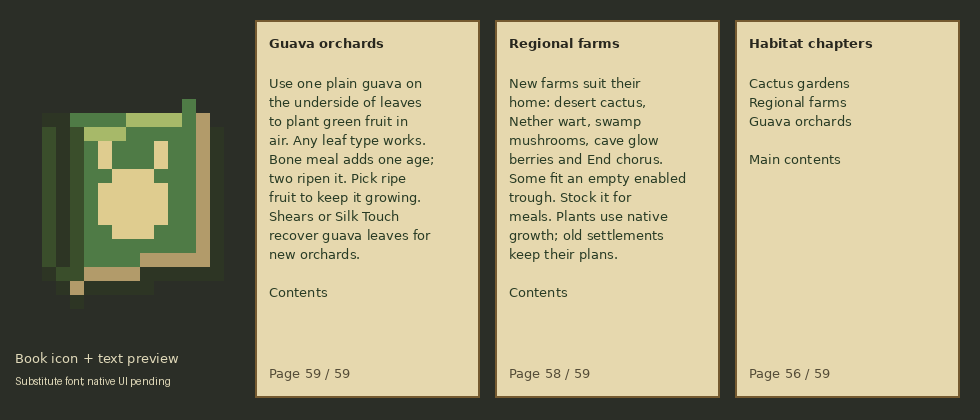
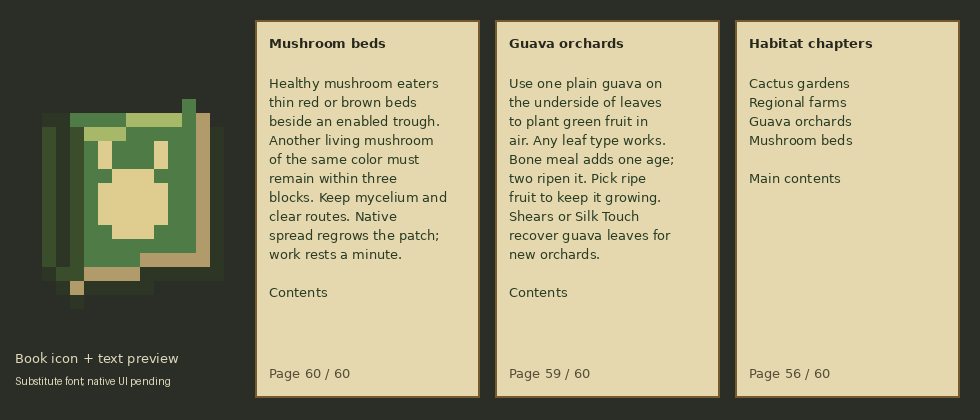
Let mushroom eaters thin beds while preserving seed stock

diff --git a/tools/gametest/java/com/bunnidogs/mod/entity/MushroomGardeningGameTest.java b/tools/gametest/java/com/bunnidogs/mod/entity/MushroomGardeningGameTest.java
@@ -1,0 +1,94 @@
+package com.bunnidogs.mod.entity;
+
+import java.util.function.Consumer;
+import com.bunnidogs.mod.block.FeedingTroughBlock;
+import com.bunnidogs.mod.block.FeedingTroughBlockEntity;
+import com.bunnidogs.mod.genetics.Gardening;
+import com.bunnidogs.mod.genetics.Gene;
+import com.bunnidogs.mod.genetics.Genome;
+import com.bunnidogs.mod.registry.ModBlocks;
+import com.bunnidogs.mod.registry.ModEntities;
+import net.minecraft.core.BlockPos;
+import net.minecraft.gametest.framework.GameTestHelper;
+import net.minecraft.util.ProblemReporter;
+import net.minecraft.world.entity.item.ItemEntity;
+import net.minecraft.world.item.ItemStack;
+import net.minecraft.world.item.Items;
+import net.minecraft.world.level.block.Blocks;
+import net.minecraft.world.level.gamerules.GameRules;
+import net.minecraft.world.level.storage.TagValueInput;
+import net.minecraft.world.level.storage.TagValueOutput;
+import net.minecraft.world.phys.AABB;
+import net.minecraft.world.phys.Vec3;
+import net.neoforged.neoforge.common.NeoForge;
+import net.neoforged.neoforge.event.entity.living.LivingDestroyBlockEvent;
+
+/** Conserved fungal seed stock, including a companion disappearing inside native protection callbacks. */
+public final class MushroomGardeningGameTest {
+    private MushroomGardeningGameTest() {}
+    private static void ready(Bunnidog dog) {
+        var level = dog.level(); var output = TagValueOutput.createWithContext(ProblemReporter.DISCARDING,level.registryAccess());
+        dog.saveWithoutId(output); var saved = output.buildResult(); saved.remove("GardenWait");
+        dog.load(TagValueInput.create(ProblemReporter.DISCARDING,level.registryAccess(),saved));
+    }
+    private static void work(GameTestHelper h, Bunnidog dog, GardenGoal goal) {
+        goal.start(); dog.setPos(Vec3.atBottomCenterOf(h.absolutePos(new BlockPos(4,1,3))));
+        for (int i = 0; i < Gardening.WORK_TICKS; i++) goal.tick(); goal.stop();
+    }
+    public static void run(GameTestHelper h) {
+        var level = h.getLevel();
+        for (int x = 0; x < 8; x++) for (int z = 0; z < 8; z++) {
+            h.setBlock(x,0,z,Blocks.MYCELIUM);
+            for (int y = 1; y <= 5; y++) h.setBlock(x,y,z,Blocks.AIR);
+        }
+        h.setBlock(1,1,1,ModBlocks.NEST.get());
+        h.setBlock(new BlockPos(3,1,4),ModBlocks.FEEDING_TROUGH.get().defaultBlockState().setValue(FeedingTroughBlock.TENDING,true));
+        var target = h.absolutePos(new BlockPos(5,1,3)); var spare = target.south(2); var brown = target.north(2);
+        level.setBlock(target,Blocks.RED_MUSHROOM.defaultBlockState(),3); level.setBlock(brown,Blocks.BROWN_MUSHROOM.defaultBlockState(),3);
+        var troughPos = h.absolutePos(new BlockPos(3,1,4)); var trough = (FeedingTroughBlockEntity)level.getBlockEntity(troughPos);
+        var dog = h.spawnWithNoFreeWill(ModEntities.BUNNIDOG.get(),3.5F,1,3.5F);
+        int eater = Gene.DIET.alleleNamed("mushroom_eater").id();
+        var genome = Genome.DEFAULT.with(Gene.DIET,0,eater).with(Gene.DIET,1,eater);
+        dog.setAge(0); dog.setGenome(genome); dog.setHealth(dog.getMaxHealth());
+        h.runAfterDelay(2,() -> {
+            var clock = level.dimensionType().defaultClock().orElseThrow(); long time = level.clockManager().getTotalTicks(clock);
+            boolean griefing = level.getGameRules().get(GameRules.MOB_GRIEFING);
+            try {
+                level.clockManager().setTotalTicks(clock,1000); level.getGameRules().set(GameRules.MOB_GRIEFING,true,level.getServer());
+                h.assertTrue(dog.moveHomeTo(level,h.absolutePos(new BlockPos(1,1,1))) == NestHome.MoveResult.MOVED,"Mushroom workers need a claimed home");
+                h.assertTrue(!new GardenGoal(dog).canUse(),"One red and one brown are both seed stock; colors cannot substitute");
+                level.setBlock(spare,Blocks.RED_MUSHROOM.defaultBlockState(),3);
+                dog.setGenome(Genome.DEFAULT); h.assertTrue(!new GardenGoal(dog).canUse(),"Plain diets must not thin fungal beds"); dog.setGenome(genome);
+                trough.setFilter(new ItemStack(Items.BROWN_MUSHROOM)); h.assertTrue(!new GardenGoal(dog).canUse(),"Exact filters must reserve the other color"); trough.clearFilter();
+                var interrupted = new GardenGoal(dog); h.assertTrue(interrupted.canUse(),"An extra red mushroom must form a sustainable harvest");
+                Consumer<LivingDestroyBlockEvent> loseCompanion = event -> {
+                    if (event.getEntity() == dog && event.getPos().equals(target)) level.removeBlock(spare,false);
+                };
+                NeoForge.EVENT_BUS.addListener(loseCompanion);
+                try { work(h,dog,interrupted); } finally { NeoForge.EVENT_BUS.unregister(loseCompanion); }
+                h.assertTrue(level.getBlockState(target).is(Blocks.RED_MUSHROOM) && level.getBlockState(spare).isAir()
+                        && trough.food().isEmpty() && dog.gardeningWait() == 0,"A companion lost during protection callbacks must keep the final seed without rest or produce");
+                level.setBlock(spare,Blocks.RED_MUSHROOM.defaultBlockState(),3);
+                var harvest = new GardenGoal(dog); h.assertTrue(harvest.canUse(),"Restored seed stock must allow a new job");
+                work(h,dog,harvest);
+                h.assertTrue(level.getBlockState(target).isAir() && level.getBlockState(spare).is(Blocks.RED_MUSHROOM)
+                        && level.getBlockState(brown).is(Blocks.BROWN_MUSHROOM) && trough.food().is(Items.RED_MUSHROOM)
+                        && trough.food().getCount() == 1 && dog.gardeningWait() == Gardening.REST_TICKS,"Harvest must store one real mushroom, keep both colors and share work rest");
+                h.assertTrue(level.getEntitiesOfClass(ItemEntity.class,new AABB(target).inflate(4),item -> item.getItem().is(Items.RED_MUSHROOM)).isEmpty(),"Thinning must not duplicate loose produce");
+                ready(dog); trough.takeAll(); h.assertTrue(!new GardenGoal(dog).canUse(),"After recovery the final mushrooms must remain until native spread");
+                level.removeBlock(spare,false); level.removeBlock(brown,false);
+                level.setBlock(target,Blocks.BROWN_MUSHROOM.defaultBlockState(),3); level.setBlock(spare,Blocks.BROWN_MUSHROOM.defaultBlockState(),3);
+                trough.setFilter(new ItemStack(Items.BROWN_MUSHROOM));
+                var brownJob = new GardenGoal(dog); h.assertTrue(brownJob.canUse(),"Brown beds must support their own exact-color work"); work(h,dog,brownJob);
+                h.assertTrue(trough.food().is(Items.BROWN_MUSHROOM) && trough.food().getCount() == 1 && level.getBlockState(spare).is(Blocks.BROWN_MUSHROOM),"Brown harvest must preserve its seed and exact filtered item");
+                ready(dog); trough.takeAll(); level.setBlock(target,Blocks.BROWN_MUSHROOM.defaultBlockState(),3);
+                level.getGameRules().set(GameRules.MOB_GRIEFING,false,level.getServer());
+                h.assertTrue(!new GardenGoal(dog).canUse(),"Fungal work obeys native griefing"); level.getGameRules().set(GameRules.MOB_GRIEFING,true,level.getServer());
+                level.setBlock(troughPos.west(),Blocks.REDSTONE_BLOCK.defaultBlockState(),3);
+                h.assertTrue(!new GardenGoal(dog).canUse(),"Powered troughs must pause fungal work"); level.removeBlock(troughPos.west(),false);
+                trough.insert(new ItemStack(Items.BROWN_MUSHROOM,16)); h.assertTrue(!new GardenGoal(dog).canUse(),"Full stock must leave the bed intact");
+                h.succeed();
+            } finally { level.clockManager().setTotalTicks(clock,time); level.getGameRules().set(GameRules.MOB_GRIEFING,griefing,level.getServer()); }
+        });
+    }
+}

diff --git a/src/main/java/com/bunnidogs/mod/entity/GardenGoal.java b/src/main/java/com/bunnidogs/mod/entity/GardenGoal.java
@@ -68,9 +68,27 @@ final class GardenGoal extends Goal {
         return state.is(Blocks.CACTUS) && level.getBlockState(pos.below()).is(Blocks.CACTUS)
                 && level.getBlockState(pos.above()).isAir() && state.canSurvive(level,pos);
     }
-    private static Work work(ServerLevel level, BlockPos pos, BlockState state, boolean cultivate, ItemStack stock) {
+    private static boolean smallMushroom(BlockState state) {
+        return state.is(Blocks.RED_MUSHROOM) || state.is(Blocks.BROWN_MUSHROOM);
+    }
+    /** Keep another living mushroom of this exact color in the loaded home patch. */
+    private boolean thinnableMushroom(ServerLevel level, BlockPos pos) {
+        var state = level.getBlockState(pos);
+        if (!smallMushroom(state) || !state.canSurvive(level,pos)) return false;
+        int r = Gardening.MUSHROOM_RADIUS;
+        for (var other : BlockPos.betweenClosed(pos.offset(-r,-1,-r),pos.offset(r,1,r))) {
+            if (other.equals(pos) || pos.distSqr(other) > r*r || !level.hasChunkAt(other) || !this.dog.foodWithinHome(other)) continue;
+            var companion = level.getBlockState(other);
+            if (companion.is(state.getBlock()) && companion.canSurvive(level,other)) return true;
+        }
+        return false;
+    }
+    private Work work(ServerLevel level, BlockPos pos, BlockState state, boolean cultivate, ItemStack stock) {
         if (state.is(Blocks.CACTUS)) return prunableCactus(level,pos)
                 ? new Work(new ItemStack(Items.CACTUS),Blocks.AIR.defaultBlockState(),Task.HARVEST) : null;
+        if (smallMushroom(state)) return thinnableMushroom(level,pos)
+                ? new Work(new ItemStack(state.is(Blocks.RED_MUSHROOM) ? Items.RED_MUSHROOM : Items.BROWN_MUSHROOM),
+                    Blocks.AIR.defaultBlockState(),Task.HARVEST) : null;
         if (state.is(Blocks.COMPOSTER)) return cultivate && state.getValue(ComposterBlock.LEVEL) < ComposterBlock.MAX_LEVEL
                 && stock.getCount() > Gardening.COMPOST_RESERVE && ComposterBlock.getValue(stock) > 0
                 ? new Work(stock.copyWithCount(1),state,Task.COMPOST) : null;
@@ -136,6 +154,7 @@ final class GardenGoal extends Goal {
                 && (this.task == Task.HARVEST || Gardening.cultivates(this.dog.stats()))
                 && this.dog.level().getBlockState(this.crop).equals(this.mature)
                 && (!this.mature.is(Blocks.CACTUS) || prunableCactus((ServerLevel)this.dog.level(),this.crop))
+                && (!smallMushroom(this.mature) || thinnableMushroom((ServerLevel)this.dog.level(),this.crop))
                 && stock != null && (this.task == Task.COMPOST
                     ? stock.food().getCount() > Gardening.COMPOST_RESERVE && ItemStack.isSameItemSameComponents(stock.food(),this.produce)
                         && ComposterBlock.getValue(this.produce) > 0 : stock.canInsert(this.produce))

diff --git a/art/gen_guide.py b/art/gen_guide.py
@@ -60,15 +60,16 @@ PAGES = {
     57: ('Cactus gardens', 'Hoe-enable a trough for desert-browser adults. They trim one spare cactus top, leaving lower segments. Keep clear ground and a safe route. Flowers stay intact. Diet, filters, power, protection and shared work rest apply.'),
     58: ('Regional farms', 'New farms suit their home: desert cactus, Nether wart, swamp mushrooms, cave glow berries and End chorus. Some fit an empty enabled trough. Stock it for meals. Plants use native growth; old settlements keep their plans.'),
     59: ('Guava orchards', 'Use one plain guava on the underside of leaves to plant green fruit in air. Any leaf type works. Bone meal adds one age; two ripen it. Pick ripe fruit to keep it growing. Shears or Silk Touch recover guava leaves for new orchards.'),
+    60: ('Mushroom beds', 'Healthy mushroom eaters thin red or brown beds beside an enabled trough. Another living mushroom of the same color must remain within three blocks. Keep mycelium and clear routes. Native spread regrows the patch; work rests a minute.'),
 }
-PAGE_COUNT = 59
+PAGE_COUNT = 60
 MAIN_INDEX = {2:'Warrens & scouts',4:'Breeding & seeds',8:'Homes & food',11:'Care & traits',15:'Lab & splicing',
               17:'Registry & shows',19:'Material drops',20:'Apex of the Line'}
 MORE_INDEX = {24:'Guava juice',25:'Gardens & stores',27:'Boss forecast',28:'Living harvests',29:'Terrain & fishing',
               31:'Resident needs',32:'Refuge & storms',34:'Troughs & bell calls',36:'Fleece & dispensers',39:'Travel Basket'}
 NEW_INDEX = {41:'Nursery & compost',44:'Treat a litter',45:'Nest guards',46:'Warren maps',47:'Mineral scouts',49:'Pause trough work',51:'Find a tagged animal',52:'Bell roll call',53:'Recovery rest',54:'Plan a litter'}
 
-HABITAT_INDEX = {57:'Cactus gardens',58:'Regional farms',59:'Guava orchards'}
+HABITAT_INDEX = {57:'Cactus gardens',58:'Regional farms',59:'Guava orchards',60:'Mushroom beds'}
 
 def pantry_guide_pool():
     return {'rolls':1,'conditions':[{'condition':'minecraft:random_chance','chance':.35}],
@@ -115,7 +116,7 @@ def main():
         bold = ImageFont.truetype('DejaVuSans-Bold.ttf',13)
     except OSError:
         font = bold = ImageFont.load_default()
-    for x,page in [(255,59),(495,58),(735,56)]:
+    for x,page in [(255,60),(495,59),(735,56)]:
         d.rectangle((x,20,x+224,397),fill=(230,216,174),outline=(117,90,48),width=2)
         title = 'Bunnidogs Guide' if page == 1 else 'More chapters' if page == 40 else 'New chapters' if page == 50 else 'Habitat chapters' if page == 56 else PAGES[page][0]
         d.text((x+14,35),title,font=bold,fill=(40,39,30))

diff --git a/tools/gametest/java/com/bunnidogs/mod/entity/GuavaGameTest.java b/tools/gametest/java/com/bunnidogs/mod/entity/GuavaGameTest.java
@@ -55,7 +55,7 @@ public final class GuavaGameTest extends GameTestInstance {
     @SubscribeEvent
     public static void registerTests(RegisterGameTestsEvent event) {
         var environment = event.registerEnvironment(id("guava_integration"), new TestEnvironmentDefinition.AllOf());
-        for (String name : new String[]{"boats", "signs", "transport", "rehoming", "wayfinding", "sampling", "adaptations", "fleece", "splicing", "registry", "table_planning", "table_automation", "show", "grooming", "settlement", "apex", "fixtures", "regional_farms", "orchard", "gardening", "cactus_gardening", "pantry", "fishing", "refuge", "guarding", "scouting", "resident_finder", "storm_shelter", "recovery_rest", "trough_automation", "bell_calls", "trough_filters", "care_dispensers", "basket", "cultivation", "nest_markers", "night_meals", "nursery", "seed_recovery", "cradle_storage", "cradle_hatching", "cradle_spawn_refusal", "crop_harvest", "composting", "nursery_treatment"}) {
+        for (String name : new String[]{"boats", "signs", "transport", "rehoming", "wayfinding", "sampling", "adaptations", "fleece", "splicing", "registry", "table_planning", "table_automation", "show", "grooming", "settlement", "apex", "fixtures", "regional_farms", "orchard", "gardening", "cactus_gardening", "mushroom_gardening", "pantry", "fishing", "refuge", "guarding", "scouting", "resident_finder", "storm_shelter", "recovery_rest", "trough_automation", "bell_calls", "trough_filters", "care_dispensers", "basket", "cultivation", "nest_markers", "night_meals", "nursery", "seed_recovery", "cradle_storage", "cradle_hatching", "cradle_spawn_refusal", "crop_harvest", "composting", "nursery_treatment"}) {
             event.registerTest(id(name), new GuavaGameTest(name, new TestData<>(environment, id("empty"), 100, 0, true)));
         }
     }
@@ -81,6 +81,7 @@ public final class GuavaGameTest extends GameTestInstance {
             case "pantry" -> com.bunnidogs.mod.worldgen.PantryGameTest.run(h);
             case "gardening" -> { GardeningGameTest.run(h); return; }
             case "cactus_gardening" -> { CactusGardeningGameTest.run(h); return; }
+            case "mushroom_gardening" -> { MushroomGardeningGameTest.run(h); return; }
             case "cultivation" -> { CultivationGameTest.run(h); return; }
             case "nest_markers" -> { NestMarkerGameTest.run(h); return; }
             case "night_meals" -> { NightMealGameTest.run(h); return; }

diff --git a/src/main/java/com/bunnidogs/mod/item/FieldGuideItem.java b/src/main/java/com/bunnidogs/mod/item/FieldGuideItem.java
@@ -12,7 +12,7 @@ import net.minecraft.world.item.component.WrittenBookContent;
 
 /** Native book UI/packets, translated pages and local page links; no custom screen or payload. */
 public final class FieldGuideItem extends WrittenBookItem {
-    public static final int PAGE_COUNT = 59;
+    public static final int PAGE_COUNT = 60;
     private static final int MORE_CONTENTS = 40;
     private static final int NEW_CONTENTS = 50;
     private static final int HABITAT_CONTENTS = 56;
@@ -26,7 +26,7 @@ public final class FieldGuideItem extends WrittenBookItem {
                 .append("\n").append(link("guide.bunnidogs.habitat_contents",HABITAT_CONTENTS))));
         for (int page = 2; page <= PAGE_COUNT; page++) {
             if (page == HABITAT_CONTENTS) {
-                pages.add(Filterable.passThrough(contents("guide.bunnidogs.habitat_contents",new int[]{57,58,59},
+                pages.add(Filterable.passThrough(contents("guide.bunnidogs.habitat_contents",new int[]{57,58,59,60},
                         "guide.bunnidogs.main_contents",1)));
                 continue;
             }

diff --git a/src/main/java/com/bunnidogs/mod/genetics/Gardening.java b/src/main/java/com/bunnidogs/mod/genetics/Gardening.java
@@ -8,6 +8,7 @@ public final class Gardening {
     public static final int WORK_TICKS = 60;
     public static final int MAX_VISIT = 240;
     public static final int CROP_RADIUS = 3;
+    public static final int MUSHROOM_RADIUS = 3;
     public static final int MIN_CULTIVATION_BLOOM = 10;
     public static final int COMPOST_RESERVE = 8;
     public static boolean cultivates(Stats stats) { return stats.get(Stat.BLOOM) >= MIN_CULTIVATION_BLOOM; }

diff --git a/START_HERE.md b/START_HERE.md
@@ -22,6 +22,14 @@ checkpoints/compaction and reserve only the capacity needed to deliver safely.
 
 ## Latest gameplay work — 2026-10-18
 
+- **L22, sustainable mushroom beds:** healthy mushroom eaters gather one
+  spare red/brown mushroom into enabled troughs only while another living
+  mushroom of that color remains in the loaded home patch. Native spread,
+  protected safe work, exact filters, power and shared rest apply. A companion
+  lost inside protection callbacks prevents the harvest without cost. Java 25
+  build/all 47 native cases pass; guide preview inspected. See
+  `docs/SETTLEMENT_LIFE.md` L22.
+
 - **O1–O3, guava orchards:** a plain guava establishes green fruit beneath
   any leaves; native bone meal advances one age by hand/dispenser. Silk Touch
   now recovers guava leaves alongside shears. Actual-hand survival/creative,
@@ -221,7 +229,7 @@ storm shelter, fishing, terrain traits, local supplies, living dust and fitted
 farms are also complete. Their rules/evidence remain in the specifications
 listed below; do not redo them.
 
-The native Field Guide has 59 translated pages and thirty-one chapter links
+The native Field Guide has 60 translated pages and thirty-two chapter links
 across four linked contents pages.
 `art/gen_guide.py` owns text/icon/preview; `art/gen_pantries.py` owns eight
 lineage food tables and shares the guide pool. See `docs/FIELD_GUIDE.md`.
@@ -239,7 +247,7 @@ lineage food tables and shares the guide pool. See `docs/FIELD_GUIDE.md`.
 | Care | Live samples, fleece palettes, whiskers/dust/moss, dispenser care, saved recoveries and sneak-Calipers home/food/care/work status. `docs/CARE_SPECS.md` C1–C9 |
 | Adaptations | Expressed fire/cold/fall/Poison/cactus/Levitation benefits, slate armor, heavy-build knockback resistance, self-lit glow, terrain movement and snow footing. `docs/CARE_SPECS.md` A1–A5 |
 | Homes/travel | Claimable Nests, day tether/night return, floor Nests, native leads/rides, led-adult reassignment, Travel Baskets and persistent compass place markers, including resident homes. `docs/HOME_SPECS.md` H1–H8 |
-| Settlement life | Saved trough stock/automation/filters/redstone pause, diet healing/short night meals, bell visits, regional farms/fitted furniture, harvest/cultivation/surplus composting, guava compost data, local stores, refuge, storm shelter, opt-in feral Nest guards, read-only bell roll call, serious-injury rest and cactus pruning. `docs/SETTLEMENT_LIFE.md` L1–L21 |
+| Settlement life | Saved trough stock/automation/filters/redstone pause, diet healing/short night meals, bell visits, regional farms/fitted furniture, harvest/cultivation/surplus composting, guava compost data, local stores, refuge, storm shelter, opt-in feral Nest guards, read-only bell roll call, serious-injury rest, cactus pruning and sustainable mushroom beds. `docs/SETTLEMENT_LIFE.md` L1–L22 |
 | Warrens | Fitted dens/mouths/tunnels/cellars, landmark rooms, grand-tree hall/loop/lower commons, cave/Nether/End entrances and saved labels. `docs/WARREN_PLAN.md` U1–U8 |
 | Exploration | Native cartographer Warren Maps, bred bat-ear compass surveys with optional mineral-family focus at Senses +20, native working-line milestones and a loaded tagged-resident finder. `docs/EXPLORATION_SPECS.md` E1–E5 |
 | Wood and travel | Guava building/redstone set, doors/shutters/lamps, four sign forms, native boats/chest boats with custom assets and drops. `docs/FIXES_PLAN.md` 4–5 |
@@ -295,7 +303,7 @@ Add `checkBunnidogModel` for mesh/renderer/animation changes. GitHub Actions run
 Avoid the large GenomeCheck suite unless substantial pure genetics/layout work
 requires it; do not repeat passing checks without a relevant change or concern.
 
-The Java 25 build and all **forty-six** native scenarios pass (forty-five mod
+The Java 25 build and all **forty-seven** native scenarios pass (forty-six mod
 cases plus native sanity). Latest coverage:
 
 - **N1:** real redstone pulses, malformed/blocked/wrong-soil/occupied planting,

diff --git a/docs/SETTLEMENT_LIFE.md b/docs/SETTLEMENT_LIFE.md
@@ -1,8 +1,34 @@
-# Settlement life L1–L21
+# Settlement life L1–L22
 
 Implemented 2026-10-16 under standing continuation authorization. Careful,
 home-bounded routines make resident animals useful and settlements feel occupied.
 No hunger/starvation system, forced breeding or changes to existing containers.
+
+## L22: sustainable mushroom thinning
+
+Healthy adults whose expressed Diet accepts mushrooms can thin small red or
+brown beds beside an enabled trough. A candidate and at least one other living
+mushroom of the **same color** must fit native survival. The companion is within
+a three-block sphere, at most one block higher/lower, loaded and inside the
+same home bounds. The job removes one mushroom and inserts exactly one matching
+item, keeping seed stock for native spread. Huge mushrooms, Nether fungi and
+the final specimen of either color are left alone. No Bloom threshold or
+accelerated growth; native mycelium/light/space rules determine regrowth.
+
+This shares harvesting's existing diet/filter/capacity, safe grounded routes,
+griefing/protection and redstone controls. The companion is rechecked throughout
+the task and after native protection callbacks, so disappearing seed stock
+prevents a stale harvest without stock or work rest. Successful work shares
+the saved one-minute recovery with every other garden/compost task. There is
+no new animal state, item type or automatic planting.
+
+L22 evidence (2026-10-18): Java 25 build/all 47 native cases pass. The new
+claimed-home case checks separate red/brown seed stock, other Diet and exact
+filter refusal, real safe work, a callback removing the companion, successful
+one-item/no-loose-duplicate harvests of both colors, preserved final mushrooms,
+shared recovery and powered/full/griefing refusals. The mushroom/orchard/Habitat
+guide preview is inspected; natural spread and resident routines remain client
+gameplay review.
 
 ## L21: regional farm beds
 

diff --git a/docs/FIELD_GUIDE.md b/docs/FIELD_GUIDE.md
@@ -76,9 +76,9 @@ resource-pack fonts may differ. The source preview uses a substitute font.
 
 ## Evidence
 
-The actual Java 25 build and current forty-six native server cases pass,
-including loading the book/recipe/loot resources. The expanded 59-page
-orchard/region/Habitat preview is inspected with a substitute font; all
+The actual Java 25 build and current forty-seven native server cases pass,
+including loading the book/recipe/loot resources. The expanded 60-page
+mushroom/orchard/Habitat preview is inspected with a substitute font; all
 three indices were also inspected for P4. Earlier
 pages were shortened using the conservative native text-area estimate.
 Native WrittenBookItem, ServerPlayer, ClientPacketListener and BookViewScreen
@@ -177,3 +177,8 @@ O1–O3 appends **Guava orchards**, page 59, covering plain-guava propagation
 beneath any leaves, bone meal growth, repeat picking and shears/Silk Touch
 canopy recovery. Habitat gains its third link, for thirty-one total chapter
 links over 59 pages. The orchard/region/Habitat preview uses a substitute font.
+
+L22 appends **Mushroom beds**, page 60, covering same-color seed conservation,
+native spread, suitable soil/routes and shared work rest. Habitat gains its
+fourth link, for thirty-two chapter links over 60 pages. The new text and
+orchard/Habitat navigation preview is inspected; earlier destinations remain.

diff --git a/README.md b/README.md
@@ -4,7 +4,7 @@ A NeoForge mod for Minecraft 26.2: a baby-faced creature with rabbit ears and a
 dog's body, plus breeding, genetics, guavas, warrens, homes and pedigree tools.
 Requires JDK 25. Client and server must both use the updated mod (network 7). The checked-in Gradle wrapper selects the project Gradle version.
 
-Craft a vanilla book with any guava for the **59-page Field Guide**, with four
+Craft a vanilla book with any guava for the **60-page Field Guide**, with four
 linked contents pages covering its chapters. Sneak-use
 Calipers for care/work readiness, use a hoe on a Feeding Trough to enable
 resident gardening, and explore food stores for supplies suited to each lineage.
@@ -12,6 +12,7 @@ Desert browsers prune spare cactus tops into enabled troughs while preserving th
 New regional farms grow cactus, wart, mushrooms, glow berries or chorus on suitable beds.
 Plant a plain guava beneath leaves to establish hanging fruit; bone meal advances its growth.
 Shears and Silk Touch recover guava leaves for orchard building.
+Mushroom eaters thin spare red/brown mushrooms into troughs, keeping the last of each color.
 Living glow/starborn lines yield renewable dust, while inherited terrain traits
 and resident shore fishing give more reasons to develop distinct breeds.
 Residents seek refuge from threats and shelter from thunderstorms.

diff --git a/docs/FEATURES.md b/docs/FEATURES.md
@@ -1,7 +1,7 @@
 # Bunnidogs: how to use each feature in game
 
 **Field Guide (P1):** combine a vanilla book with any guava. Use the book to
-open 59 pages from first warren to Apex. Four linked contents pages offer thirty-one
+open 60 pages from first warren to Apex. Four linked contents pages offer thirty-two
 chapter links; Habitat chapters collect regional gardens.
 It can also appear in unopened warren pantry barrels (35% chance). Native book
 pages, rather than a separate custom screen, explain the progression in-game.
@@ -506,3 +506,10 @@ actual hand; creative keeps it. Enhanced guavas never plant. Bone meal advances
 one age, by hand or dispenser; two applications ripen a new fruit. Picking keeps
 the plant to regrow. Shears and Silk Touch each recover one guava leaf block
 without sapling/stick extras. Native protection/Adventure restrictions apply.
+
+**Mushroom beds (L22):** healthy mushroom eaters gather a spare red or brown
+mushroom beside an enabled trough only while another living mushroom of that
+same color remains within three blocks in their loaded home area. One item
+enters stock with the shared one-minute work rest. Native spread replenishes
+the bed; the final seed of each color stays. Filters, power, safe routes,
+capacity and native griefing/protection rules apply.

diff --git a/docs/ROADMAP.md b/docs/ROADMAP.md
@@ -16,6 +16,11 @@ and mouths, **H3b** house floor Nests. V1a, V1b, H3 and H4 WORK.
 
 ## Latest implemented work (gameplay pending)
 
+L22 adds sustainable red/brown mushroom thinning for matching healthy residents,
+leaving a living same-color companion inside loaded home bounds. Native spread,
+safe routes, protection callbacks and normal trough/work controls apply. Java
+25 build/all 47 cases pass; guide preview inspected. See `SETTLEMENT_LIFE.md`.
+
 O1–O3 adds player-established guava fruit beneath any leaves, one-age native
 bone meal growth by hand/dispenser and Silk Touch recovery of guava leaves.
 Plain-guava/actual-hand costs, native placement protection and saved ages remain
